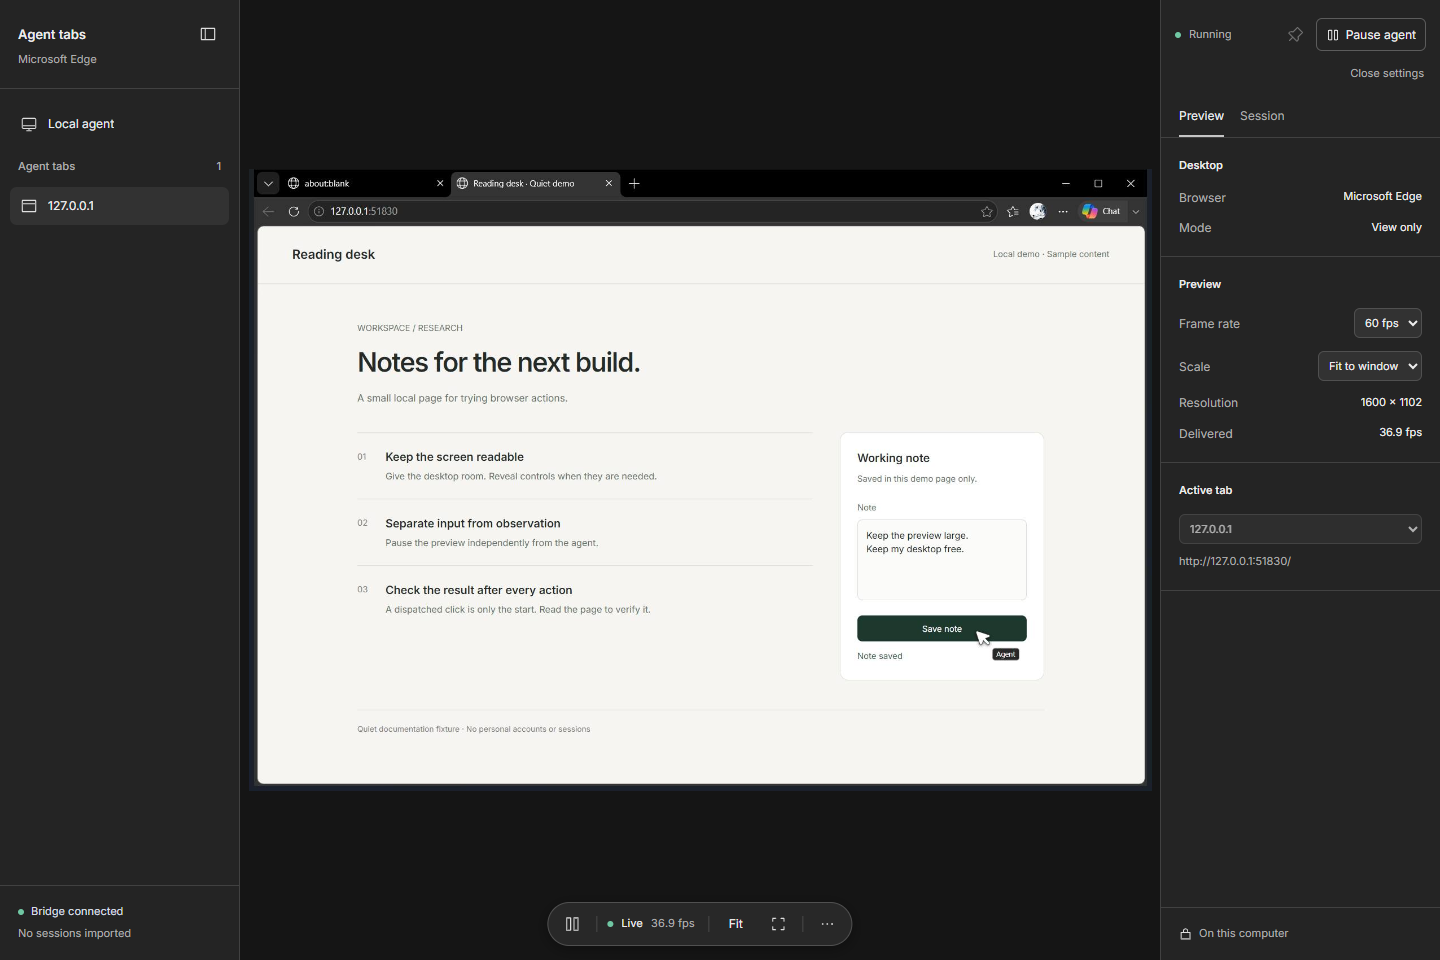
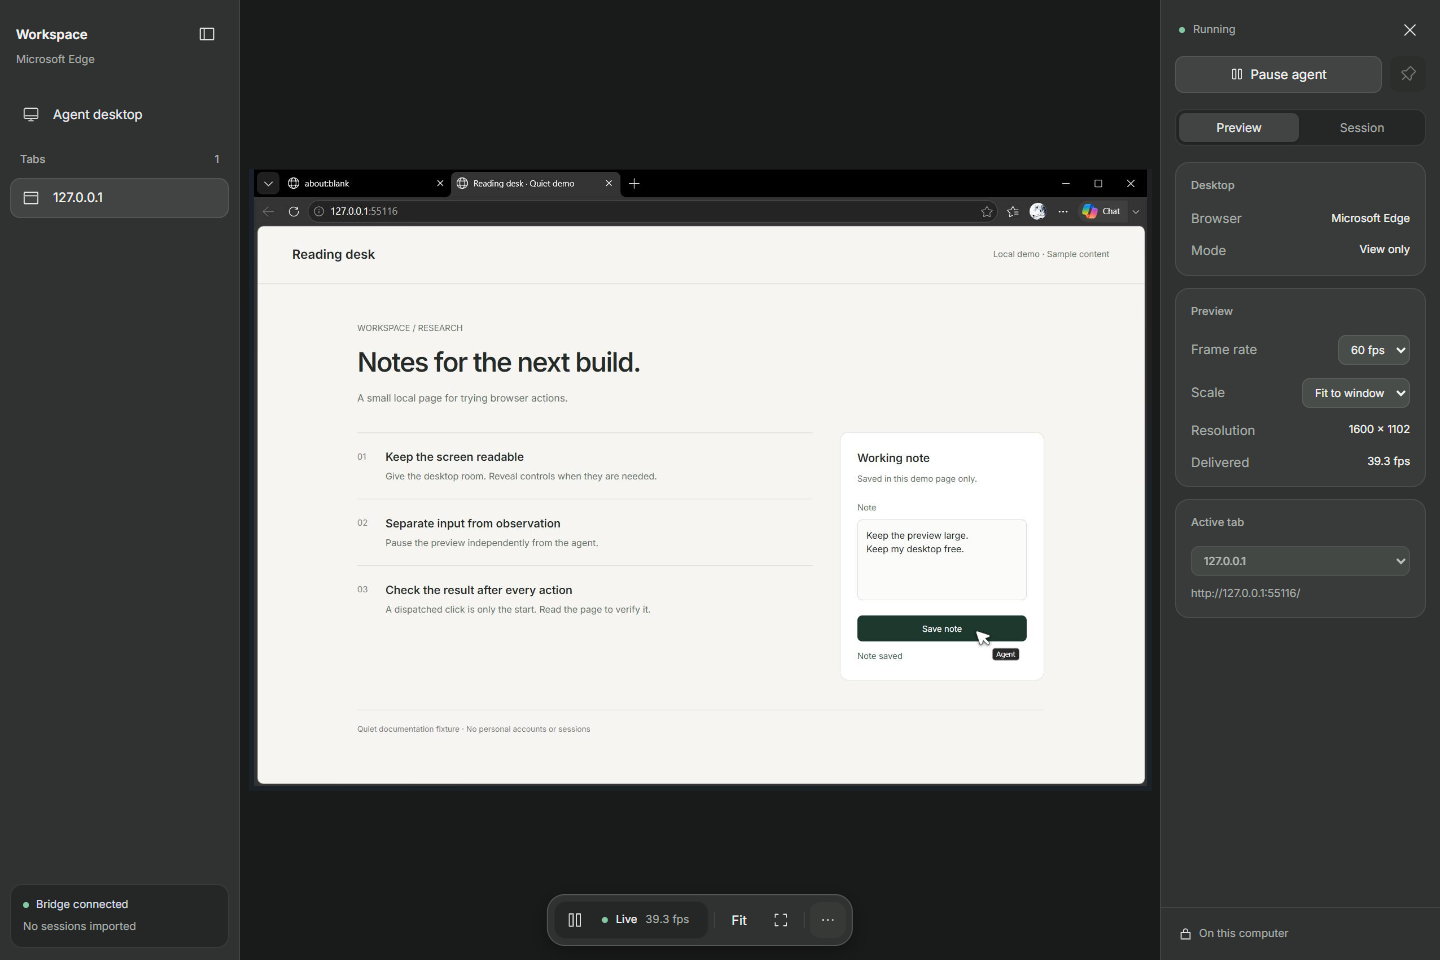
docs: refresh desktop preview screenshots

diff --git a/README.md b/README.md
@@ -74,11 +74,11 @@ For development, set `$env:QUIET_AUTO_UPDATE = '0'` to disable network checks. A
 
 ## Watch and control
 
-Click the mini control to expand it. Drag the collapsed control to move it. Closing it leaves the agent running.
+Click the mini control to expand it. Drag it to move it. Open the desktop or pause the agent from the bottom bar. The controls at the top right collapse or close the mini; closing it leaves the agent running.
 
 <table>
-<tr><td align="center" width="240"><strong>Collapsed</strong></td><td align="center" width="320"><strong>Expanded</strong></td></tr>
-<tr><td align="center"><img src="docs/assets/mini-collapsed.png" alt="Collapsed native mini control" width="184"></td><td align="center"><img src="docs/assets/mini-expanded.png" alt="Expanded native mini control with open and pause actions" width="276"></td></tr>
+<tr><td align="center" width="260"><strong>Collapsed</strong></td><td align="center" width="360"><strong>Expanded</strong></td></tr>
+<tr><td align="center"><img src="docs/assets/mini-collapsed.png" alt="Collapsed native mini control" width="214"></td><td align="center"><img src="docs/assets/mini-expanded.png" alt="Expanded native mini control with open and pause actions" width="320"></td></tr>
 </table>
 
 The viewer offers Fit/100%, full screen, keep on top, preview pause and 30/60 fps targets. The counter reports frames actually presented; 60 fps is a target, not a guarantee.
